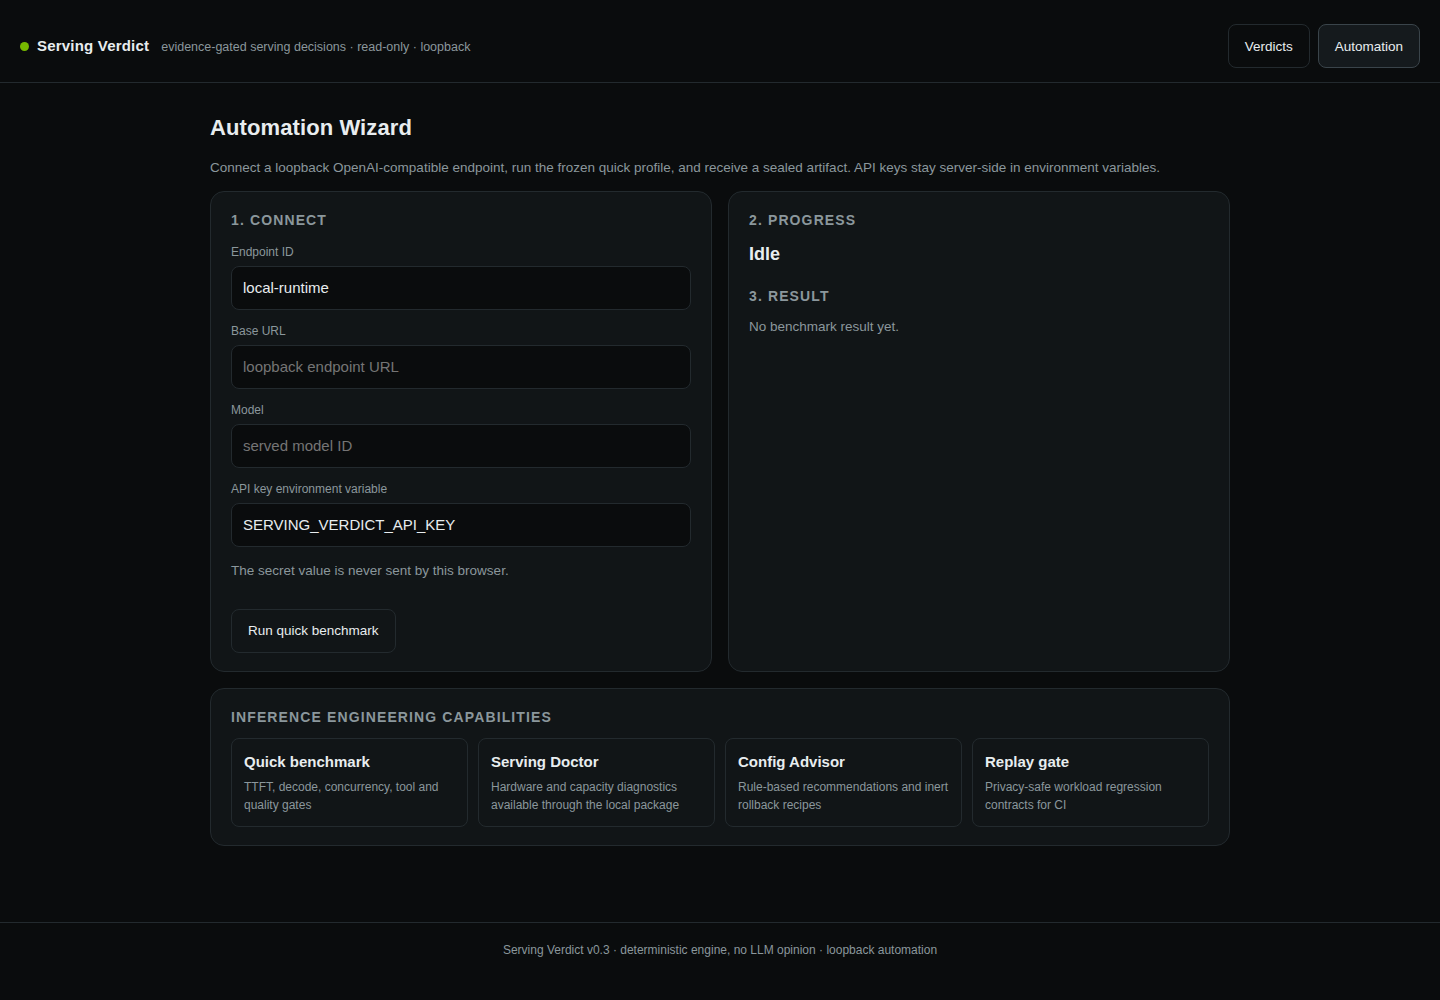
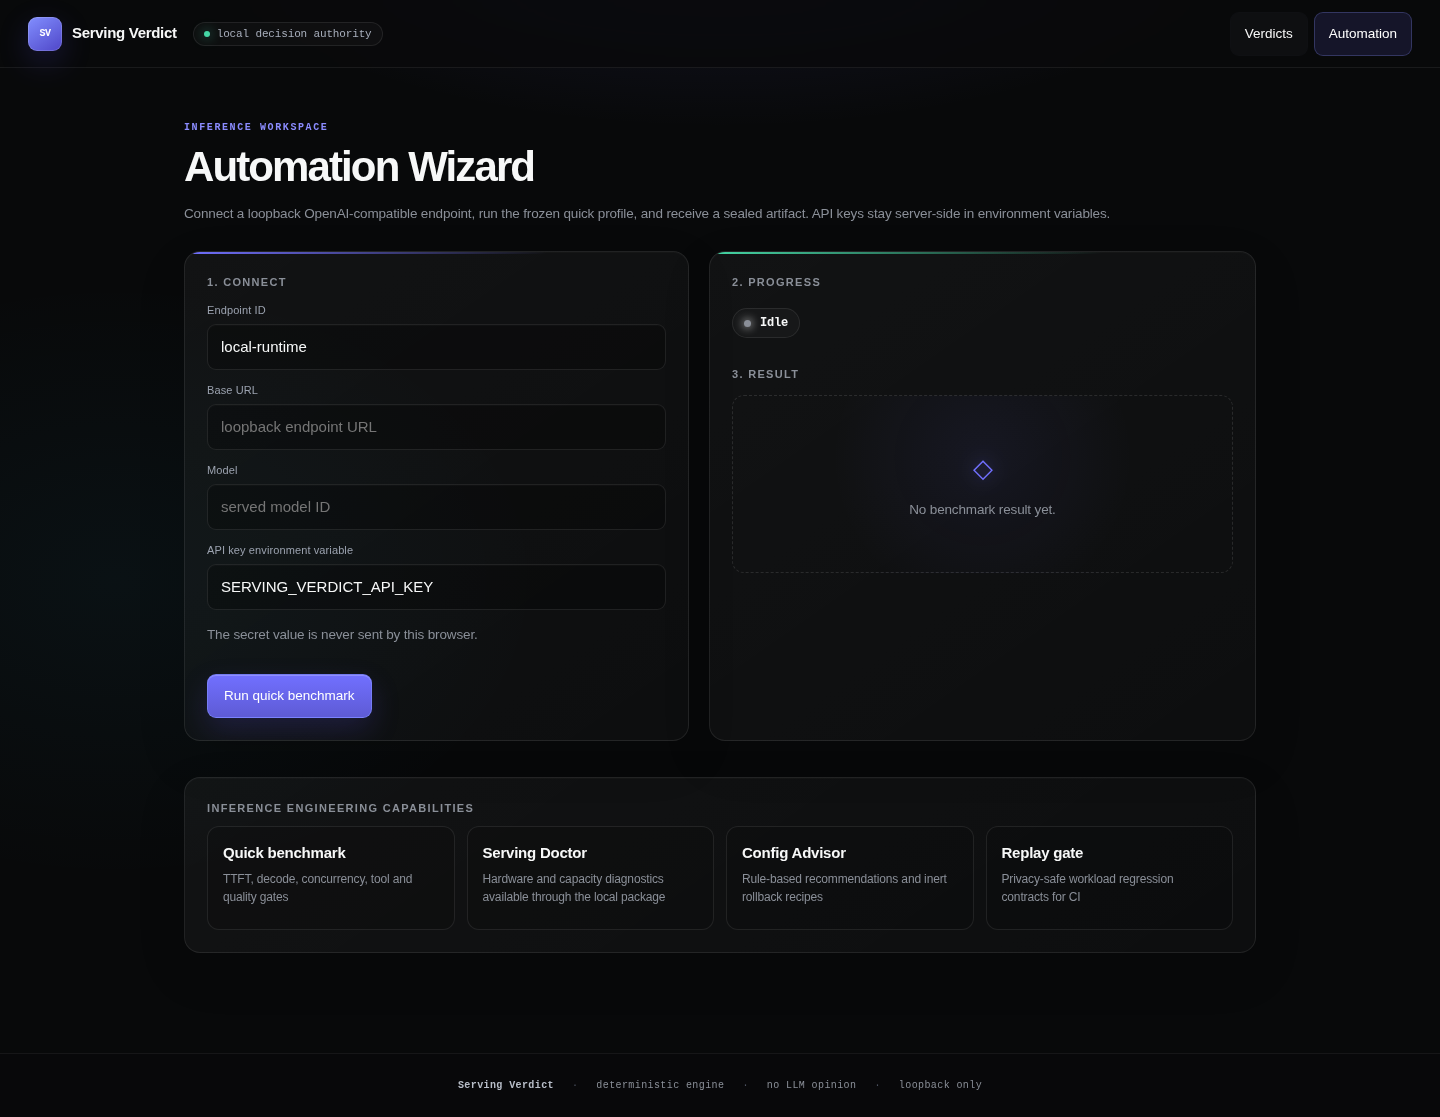
feat: refresh professional product UI

diff --git a/src/serving_verdict/web/ui.css b/src/serving_verdict/web/ui.css
@@ -273,3 +273,131 @@ table.metrics th[scope="row"] {
     scroll-behavior: auto !important;
   }
 }
+
+/* ---------------------------------------------------------------- v0.5 product visual system */
+:root {
+  --bg: #08090a;
+  --panel: rgba(255, 255, 255, 0.025);
+  --panel-2: rgba(255, 255, 255, 0.055);
+  --line: rgba(255, 255, 255, 0.085);
+  --text: #f7f8f8;
+  --muted: #8a8f98;
+  --green: #45d7a5;
+  --green-dim: #173b30;
+  --red: #ff6b72;
+  --red-dim: #4d2228;
+  --amber: #f0b45a;
+  --amber-dim: #473619;
+  --focus: #828fff;
+  --accent: #7170ff;
+  --accent-soft: rgba(113, 112, 255, 0.13);
+}
+body {
+  min-height: 100vh;
+  background:
+    radial-gradient(900px 440px at 50% -180px, rgba(113,112,255,.18), transparent 70%),
+    radial-gradient(600px 420px at 8% 52%, rgba(54,200,244,.045), transparent 72%),
+    var(--bg);
+  font-family: Inter, -apple-system, BlinkMacSystemFont, "Segoe UI", sans-serif;
+  font-feature-settings: "cv01", "ss03";
+  letter-spacing: -0.01em;
+}
+.topbar {
+  min-height: 68px; padding: 11px 28px; align-items: center; gap: 16px;
+  background: rgba(8,9,10,.82); backdrop-filter: blur(18px) saturate(140%);
+  border-bottom-color: rgba(255,255,255,.07);
+}
+.brand { font-weight: 590; letter-spacing: -.02em; gap: 10px; }
+.brand-mark {
+  display: inline-grid; place-items: center; width: 34px; height: 34px;
+  border-radius: 9px; color: #fff; font: 700 10px ui-monospace, monospace;
+  letter-spacing: -.04em; background: linear-gradient(145deg,#828fff,#4f46c8);
+  box-shadow: 0 0 0 1px rgba(255,255,255,.16) inset, 0 10px 30px rgba(80,70,200,.24);
+}
+.topbar-sub {
+  display: inline-flex; align-items: center; gap: 7px; padding: 5px 10px;
+  border: 1px solid var(--line); border-radius: 999px; font: 500 11px ui-monospace, monospace;
+  color: #a8afbc; background: rgba(255,255,255,.025);
+}
+.dot { width: 6px; height: 6px; box-shadow: 0 0 12px rgba(69,215,165,.75); }
+.topnav { gap: 6px; }
+.topnav .btn { margin: 0; min-height: 40px; padding: 8px 14px; border-color: transparent; }
+.topnav .btn:hover { border-color: var(--line); background: rgba(255,255,255,.045); }
+.topnav .btn[aria-current="page"] { border-color: rgba(130,143,255,.28); background: var(--accent-soft); color: #fff; }
+main { max-width: 1120px; padding: 54px 24px 84px; }
+.page-kicker {
+  margin-bottom: 12px; color: #8b8cff; font: 600 10px ui-monospace, monospace;
+  letter-spacing: .16em;
+}
+h1 { margin: 0 0 10px; font-size: clamp(30px,4vw,42px); line-height: 1.05; font-weight: 590; letter-spacing: -.045em; }
+h2 { font-size: 11px; font-weight: 600; letter-spacing: .12em; }
+.muted { line-height: 1.65; }
+.panel, .card, .verdict-panel {
+  background: linear-gradient(145deg, rgba(255,255,255,.038), rgba(255,255,255,.018));
+  border-color: var(--line); box-shadow: 0 1px 0 rgba(255,255,255,.025) inset, 0 18px 50px rgba(0,0,0,.12);
+}
+.panel { border-radius: 16px; padding: 22px; }
+.card { border-radius: 14px; padding: 19px; transition: border-color .16s ease, transform .16s ease, background .16s ease; }
+.card:hover { border-color: rgba(130,143,255,.42); background: rgba(255,255,255,.045); transform: translateY(-1px); }
+.btn {
+  border-color: var(--line); border-radius: 9px; background: rgba(255,255,255,.025);
+  font-weight: 510; transition: border-color .16s ease, background .16s ease, transform .16s ease;
+}
+.btn:hover { background: rgba(255,255,255,.06); border-color: rgba(255,255,255,.16); }
+.btn.primary {
+  border-color: rgba(130,143,255,.6); background: linear-gradient(180deg,#7170ff,#5e5bd5);
+  color: #fff; box-shadow: 0 1px 0 rgba(255,255,255,.22) inset, 0 12px 28px rgba(80,70,200,.22);
+}
+.btn.primary:hover { background: linear-gradient(180deg,#828fff,#6865df); transform: translateY(-1px); }
+.automation-grid { margin-top: 26px; grid-template-columns: .96fr 1.04fr; gap: 20px; align-items: stretch; }
+.connect-panel, .progress-panel { position: relative; overflow: hidden; }
+.connect-panel::before, .progress-panel::before {
+  content: ""; position: absolute; inset: 0 0 auto; height: 2px;
+  background: linear-gradient(90deg,var(--accent),transparent 72%);
+}
+.progress-panel::before { background: linear-gradient(90deg,var(--green),transparent 72%); }
+.automation-grid label { font-size: 11px; font-weight: 510; color: #9ba2af; letter-spacing: .01em; }
+.automation-grid input {
+  border-color: rgba(255,255,255,.09); background: rgba(0,0,0,.28); border-radius: 9px;
+  padding: 11px 13px; color: var(--text); box-shadow: 0 1px 0 rgba(255,255,255,.02) inset;
+}
+.automation-grid input:focus { border-color: rgba(130,143,255,.65); box-shadow: 0 0 0 3px rgba(113,112,255,.12); outline: none; }
+.automation-status {
+  display: inline-flex; align-items: center; gap: 9px; margin: 8px 0 28px;
+  padding: 7px 11px; border: 1px solid var(--line); border-radius: 999px;
+  font: 600 12px ui-monospace,monospace; background: rgba(255,255,255,.025);
+}
+.automation-status::before { content: ""; width: 7px; height: 7px; border-radius: 50%; background: var(--muted); box-shadow: 0 0 10px currentColor; }
+.result-empty {
+  min-height: 178px; display: grid; place-content: center; justify-items: center; gap: 9px;
+  margin-top: 12px; border: 1px dashed rgba(255,255,255,.11); border-radius: 12px;
+  background: radial-gradient(circle at 50% 35%,rgba(113,112,255,.07),transparent 55%);
+  text-align: center;
+}
+.result-empty span { color: #7170ff; font-size: 26px; filter: drop-shadow(0 0 8px rgba(113,112,255,.55)); }
+.capability-panel { margin-top: 20px; }
+.capability-cards { gap: 12px; }
+.capability-cards > div {
+  min-height: 104px; border-radius: 12px; padding: 15px; background: rgba(0,0,0,.14);
+  transition: border-color .16s ease, background .16s ease;
+}
+.capability-cards > div:hover { border-color: rgba(130,143,255,.38); background: rgba(113,112,255,.045); }
+.capability-cards strong { font-weight: 590; letter-spacing: -.015em; }
+.capability-cards span { line-height: 1.55; }
+.verdict { border-radius: 999px; }
+.footer {
+  display: flex; justify-content: center; align-items: center; flex-wrap: wrap; gap: 9px 18px;
+  min-height: 64px; background: rgba(8,9,10,.6); border-top-color: rgba(255,255,255,.06);
+  font: 500 10px ui-monospace,monospace; letter-spacing: .04em;
+}
+.footer span::before { content: "·"; margin-right: 18px; color: #4c5260; }
+.footer strong { color: #b8bec9; }
+@media (max-width: 700px) {
+  .topbar { padding: 10px 14px; }
+  .topbar-sub { display: none; }
+  main { padding: 34px 14px 56px; }
+  .automation-grid { grid-template-columns: 1fr; }
+  .topnav { width: 100%; }
+  .topnav .btn { flex: 1; }
+  .footer span::before { display: none; }
+}

diff --git a/src/serving_verdict/web/index.html b/src/serving_verdict/web/index.html
@@ -8,8 +8,8 @@
 </head>
 <body>
 <header class="topbar">
-  <div class="brand"><span class="dot" aria-hidden="true"></span>Serving Verdict</div>
-  <div class="topbar-sub">evidence-gated serving decisions &middot; read-only &middot; loopback</div>
+  <div class="brand"><span class="brand-mark" aria-hidden="true">SV</span><span>Serving Verdict</span></div>
+  <div class="topbar-sub"><span class="dot" aria-hidden="true"></span> local decision authority</div>
   <nav class="topnav" aria-label="Primary">
     <button id="nav-verdicts" class="btn" type="button">Verdicts</button>
     <button id="nav-automation" class="btn" type="button">Automation</button>
@@ -19,6 +19,7 @@
 <main>
   <!-- ===================== INDEX (list) ===================== -->
   <section id="index-view" aria-labelledby="list-heading">
+    <div class="page-kicker">DECISION AUTHORITY</div>
     <h1 id="list-heading">Verdicts</h1>
     <p class="muted">Bound, tamper-evident decisions from local inference evidence.
       Verdict first, always as a text label. <span id="verdict-count" class="verdict-count"></span></p>
@@ -128,11 +129,12 @@
 
   <!-- ===================== AUTOMATION WIZARD ===================== -->
   <section id="automation-view" class="hidden" aria-labelledby="automation-heading">
+    <div class="page-kicker">INFERENCE WORKSPACE</div>
     <h1 id="automation-heading">Automation Wizard</h1>
     <p class="muted">Connect a loopback OpenAI-compatible endpoint, run the frozen quick profile,
       and receive a sealed artifact. API keys stay server-side in environment variables.</p>
     <div class="automation-grid">
-      <section class="panel">
+      <section class="panel connect-panel">
         <h2>1. Connect</h2>
         <label for="auto-endpoint-id">Endpoint ID</label>
         <input id="auto-endpoint-id" value="local-runtime" autocomplete="off">
@@ -146,17 +148,17 @@
         <button id="auto-start" class="btn primary" type="button">Run quick benchmark</button>
         <button id="auto-cancel" class="btn hidden" type="button">Request cancel</button>
       </section>
-      <section class="panel" aria-live="polite">
+      <section class="panel progress-panel" aria-live="polite">
         <h2>2. Progress</h2>
         <div id="auto-status" class="automation-status">Idle</div>
         <div id="auto-error" class="error hidden"></div>
         <button id="auto-refresh" class="btn hidden" type="button">Refresh status</button>
         <h2>3. Result</h2>
-        <div id="auto-result-empty" class="muted">No benchmark result yet.</div>
+        <div id="auto-result-empty" class="muted result-empty"><span aria-hidden="true">◇</span>No benchmark result yet.</div>
         <pre id="auto-result" class="automation-result hidden"></pre>
       </section>
     </div>
-    <section class="panel">
+    <section class="panel capability-panel">
       <h2>Inference engineering capabilities</h2>
       <div class="capability-cards">
         <div><strong>Quick benchmark</strong><span>TTFT, decode, concurrency, tool and quality gates</span></div>
@@ -170,7 +172,7 @@
 
 <div id="copy-live" class="visually-hidden" role="status" aria-live="polite"></div>
 
-<footer class="footer">Serving Verdict v0.3 &middot; deterministic engine, no LLM opinion &middot; loopback automation</footer>
+<footer class="footer"><strong>Serving Verdict</strong><span>deterministic engine</span><span>no LLM opinion</span><span>loopback only</span></footer>
 <script src="/ui.js"></script>
 </body>
 </html>

diff --git a/src/serving_verdict/web/ui.js b/src/serving_verdict/web/ui.js
@@ -210,6 +210,8 @@
   /* ------------------------------- index ------------------------------- */
 
   function renderIndex() {
+    $("nav-verdicts").setAttribute("aria-current", "page");
+    $("nav-automation").setAttribute("aria-current", "false");
     $("index-view").classList.remove("hidden");
     $("detail-view").classList.add("hidden");
     $("error-view").classList.add("hidden");
@@ -541,6 +543,8 @@
   /* --------------------------- automation wizard --------------------------- */
 
   function showAutomation() {
+    $("nav-automation").setAttribute("aria-current", "page");
+    $("nav-verdicts").setAttribute("aria-current", "false");
     $("index-view").classList.add("hidden");
     $("detail-view").classList.add("hidden");
     $("error-view").classList.add("hidden");
